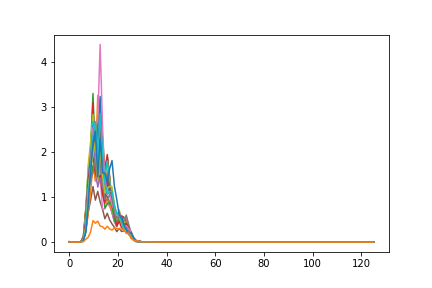
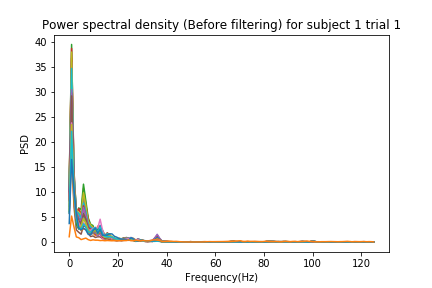
Updated

diff --git a/code/main.py b/code/main.py
@@ -11,10 +11,12 @@ X,Y = get_data("../data/") # trials X channels X values
 
 #Showing PSD of 1st subject 1st trial all 22 channels: 
 for i in range(22):
-    f,psd = welch(X[0,i],250)
+    f,psd = welch(X[0,i,:],250)
     plt.plot(f,psd)
     plt.savefig('PSD before filtering.png')
-    
+    plt.xlabel('Frequency(Hz)')
+    plt.ylabel('PSD')
+    plt.title('Power spectral density (Before filtering) for subject 1 trial 1')    
 for l in range(len(Y)):
     Y[l] = labels[Y[l]]
 
@@ -25,6 +27,10 @@ X = preprocess(X)
 for i in range(22):
     f,psd = welch(X[0,i,:],250)
     plt.plot(f,psd)
+    plt.savefig('PSD after filtering.png')
+    plt.xlabel('Frequency(Hz)')
+    plt.ylabel('PSD')
+    plt.title('Power spectral density (After filtering) for subject 1 trial 1')    
     plt.savefig('PSD after filtering.png')
 
 # Feature extraction
